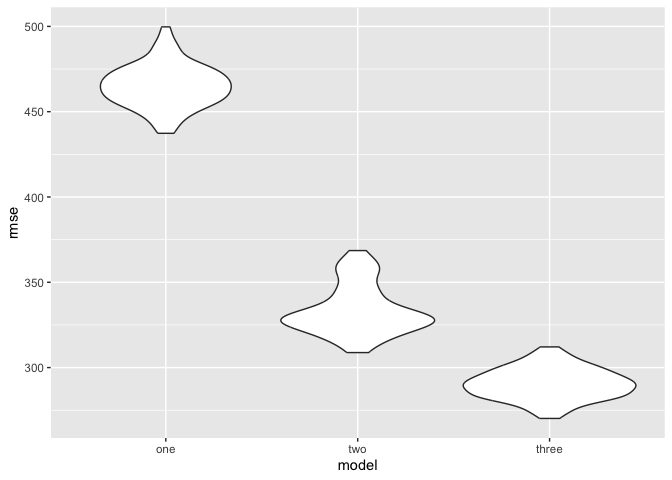
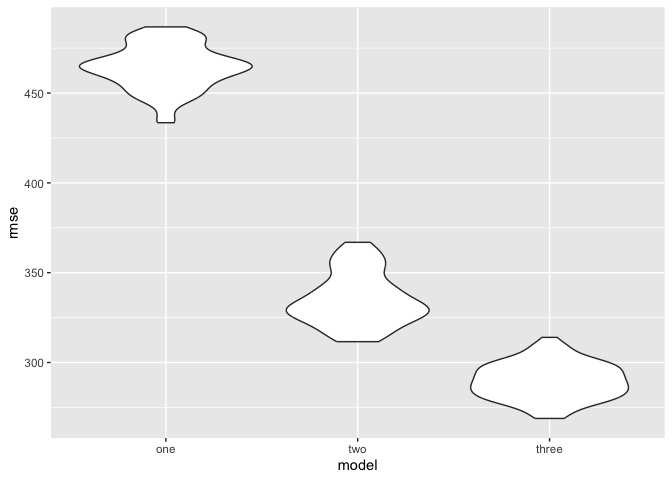
final commit, all done

diff --git a/Homework_6.md b/Homework_6.md
@@ -1,7 +1,7 @@
 Homework 6
 ================
 Laura O’Carroll
-2023-11-28
+2023-11-30
 
 ## Problem 2
 
@@ -109,18 +109,18 @@ compact_boot_results
 ```
 
     ## # A tibble: 5,000 × 7
-    ##    strap_number models r.squared beta_0 beta_1   beta_2 log_b1_b2
-    ##           <int> <list>     <dbl>  <dbl>  <dbl>    <dbl>     <dbl>
-    ##  1            1 <lm>       0.919   8.08  0.998  0.00182     -6.31
-    ##  2            2 <lm>       0.928   7.80  1.06  -0.00671    NaN   
-    ##  3            3 <lm>       0.893   8.33  0.989  0.00563     -5.19
-    ##  4            4 <lm>       0.928   7.85  1.03  -0.00317    NaN   
-    ##  5            5 <lm>       0.909   8.00  0.999  0.00186     -6.29
-    ##  6            6 <lm>       0.923   8.17  1.01  -0.00242    NaN   
-    ##  7            7 <lm>       0.918   8.41  1.00  -0.00811    NaN   
-    ##  8            8 <lm>       0.942   7.75  1.04  -0.00627    NaN   
-    ##  9            9 <lm>       0.916   7.82  1.01   0.00497     -5.29
-    ## 10           10 <lm>       0.931   7.90  1.03  -0.00381    NaN   
+    ##    strap_number models r.squared beta_0 beta_1     beta_2 log_b1_b2
+    ##           <int> <list>     <dbl>  <dbl>  <dbl>      <dbl>     <dbl>
+    ##  1            1 <lm>       0.929   7.74   1.03 -0.000999     NaN   
+    ##  2            2 <lm>       0.913   7.83   1.02  0.0000509     -9.87
+    ##  3            3 <lm>       0.912   8.22   1.01 -0.00623      NaN   
+    ##  4            4 <lm>       0.904   8.00   1.01 -0.000294     NaN   
+    ##  5            5 <lm>       0.907   8.07   1.01 -0.00430      NaN   
+    ##  6            6 <lm>       0.918   7.89   1.02  0.00120       -6.70
+    ##  7            7 <lm>       0.935   8.07   1.03 -0.00714      NaN   
+    ##  8            8 <lm>       0.913   8.10   1.02  0.00119       -6.71
+    ##  9            9 <lm>       0.931   8.26   1.03 -0.00698      NaN   
+    ## 10           10 <lm>       0.928   7.75   1.06 -0.00762      NaN   
     ## # ℹ 4,990 more rows
 
 Importantly, because many of the $\hat{\beta_2}$ values calculated are
@@ -145,7 +145,7 @@ compact_boot_results |>
   geom_density()
 ```
 
-    ## Warning: Removed 3376 rows containing non-finite values (`stat_density()`).
+    ## Warning: Removed 3406 rows containing non-finite values (`stat_density()`).
 
 ![](Homework_6_files/figure-gfm/unnamed-chunk-5-1.png)<!-- -->
 
@@ -165,11 +165,11 @@ compact_boot_results |>
 
 | rsq_ci_lower | rsq_ci_upper | log_beta_ci_lower | log_beta_ci_upper |
 |-------------:|-------------:|------------------:|------------------:|
-|        0.888 |         0.94 |            -9.202 |            -4.567 |
+|        0.889 |        0.941 |            -8.919 |            -4.609 |
 
-The estimate of $\hat{r^2}$ is 0.9170022, 95% CI \[0.8881248,
-0.9404097\]. The estimate of $log(\hat{\beta_1} * \hat{\beta_2})$ is
--6.138258, 95% CI \[-9.2024158, -4.5665181\].
+The estimate of $\hat{r^2}$ is 0.9173494, 95% CI \[0.8891391,
+0.9408917\]. The estimate of $log(\hat{\beta_1} * \hat{\beta_2})$ is
+-6.0972887, 95% CI \[-8.918926, -4.6086656\].
 
 It’s important to note that because the value of
 $log(\hat{\beta_1} * \hat{\beta_2})$ is the result of trying to take the
